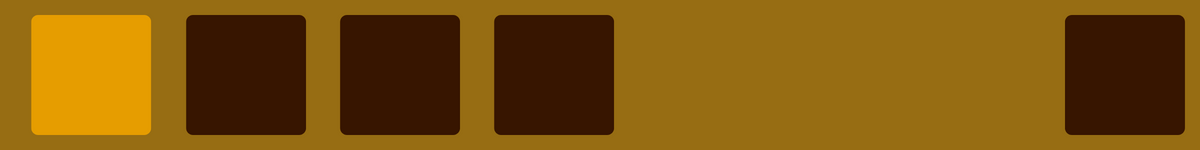
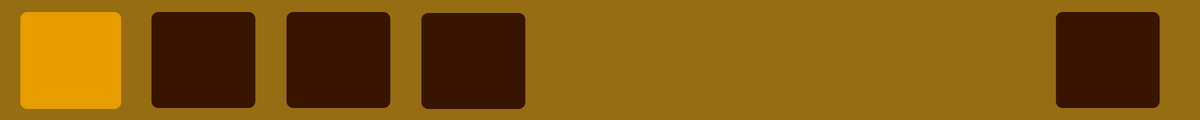
colocando o background bolado

diff --git a/pvz.py b/pvz.py
@@ -81,7 +81,7 @@ class Game:
 
     def display_money(self, screen):
         self.money_surf = self.game_font.render(f'{self.money}$', False, (255, 255, 255))
-        self.money_rect = self.money_surf.get_rect(center=(125, 75))
+        self.money_rect = self.money_surf.get_rect(topleft=(28, 44))
         screen.blit(self.money_surf, self.money_rect)
 
 
@@ -93,7 +93,7 @@ class Game:
         self.menu = pygame.image.load("graphics/menuBar.png").convert_alpha()
         self.menu = pygame.transform.scale(self.menu,(1200, 120))
         self.menu_rect = self.menu.get_rect(topleft = (0,0))
-        self.game_font = pygame.font.Font('font/font.ttf', 75)
+        self.game_font = pygame.font.Font('font/font.ttf', 66)
         self.sprite_group = pygame.sprite.Group()
         self.plant_group = pygame.sprite.Group()
         self.shooter_plant_group = pygame.sprite.Group()
@@ -105,17 +105,17 @@ class Game:
         self.sunflower_group = pygame.sprite.Group()
 
 
-        self.peashooter_box = PeashooterBox((250, 50))
+        self.peashooter_box = PeashooterBox((178, 38))
         self.sprite_group.add(self.peashooter_box)
         self.draggable_group.add(self.peashooter_box)
         self.boxes_group.add(self.peashooter_box)
 
-        self.sunflower_box = SunflowerBox((350, 50))
+        self.sunflower_box = SunflowerBox((312, 38))
         self.sprite_group.add(self.sunflower_box)
         self.draggable_group.add(self.sunflower_box)
         self.boxes_group.add(self.sunflower_box)
         
-        self.wallnut_box = WallnutBox((450, 50))
+        self.wallnut_box = WallnutBox((448, 38))
         self.sprite_group.add(self.wallnut_box)
         self.draggable_group.add(self.wallnut_box)
         self.boxes_group.add(self.wallnut_box)
@@ -125,18 +125,19 @@ class Game:
         self.dragging_plant = None
         self.dragging_plant_group = pygame.sprite.GroupSingle()
 
-        self.grass_x = 100
-        self.grass_y = 200
-        self.grass_gap = 120
+        self.grass_x = 345
+        self.grass_y = 250
+        self.grass_gap_x = 94
+        self.grass_gap_y = 112
 
         for i in range(5):
-            for j in range(8):
-                grass = Grass((self.grass_x + (j * self.grass_gap), self.grass_y + (i * self.grass_gap)))
+            for j in range(9):
+                grass = Grass((self.grass_x + (j * self.grass_gap_x), self.grass_y + (i * self.grass_gap_y)))
                 self.grass_group.add(grass)
                 self.sprite_group.add(grass)
 
         for i in range(5):
-            enemy = Enemy((1000, self.grass_y + (i * self.grass_gap) - 25))
+            enemy = Enemy((1000, self.grass_y + (i * self.grass_gap_y) - 25))
             self.enemy_group.add(enemy)
             self.sprite_group.add(enemy)
 

diff --git a/plant.py b/plant.py
@@ -52,8 +52,8 @@ class Sunflower(Plant):
     def __init__(self, pos=(0, 0)):
         super().__init__(pos)
 
-        self.color = (252, 186, 3)
-        self.image.fill(self.color)
+        # self.color = (252, 186, 3)
+        # self.image.fill(self.color)
         self.shooter = False
 
         self.sprite_list = []
